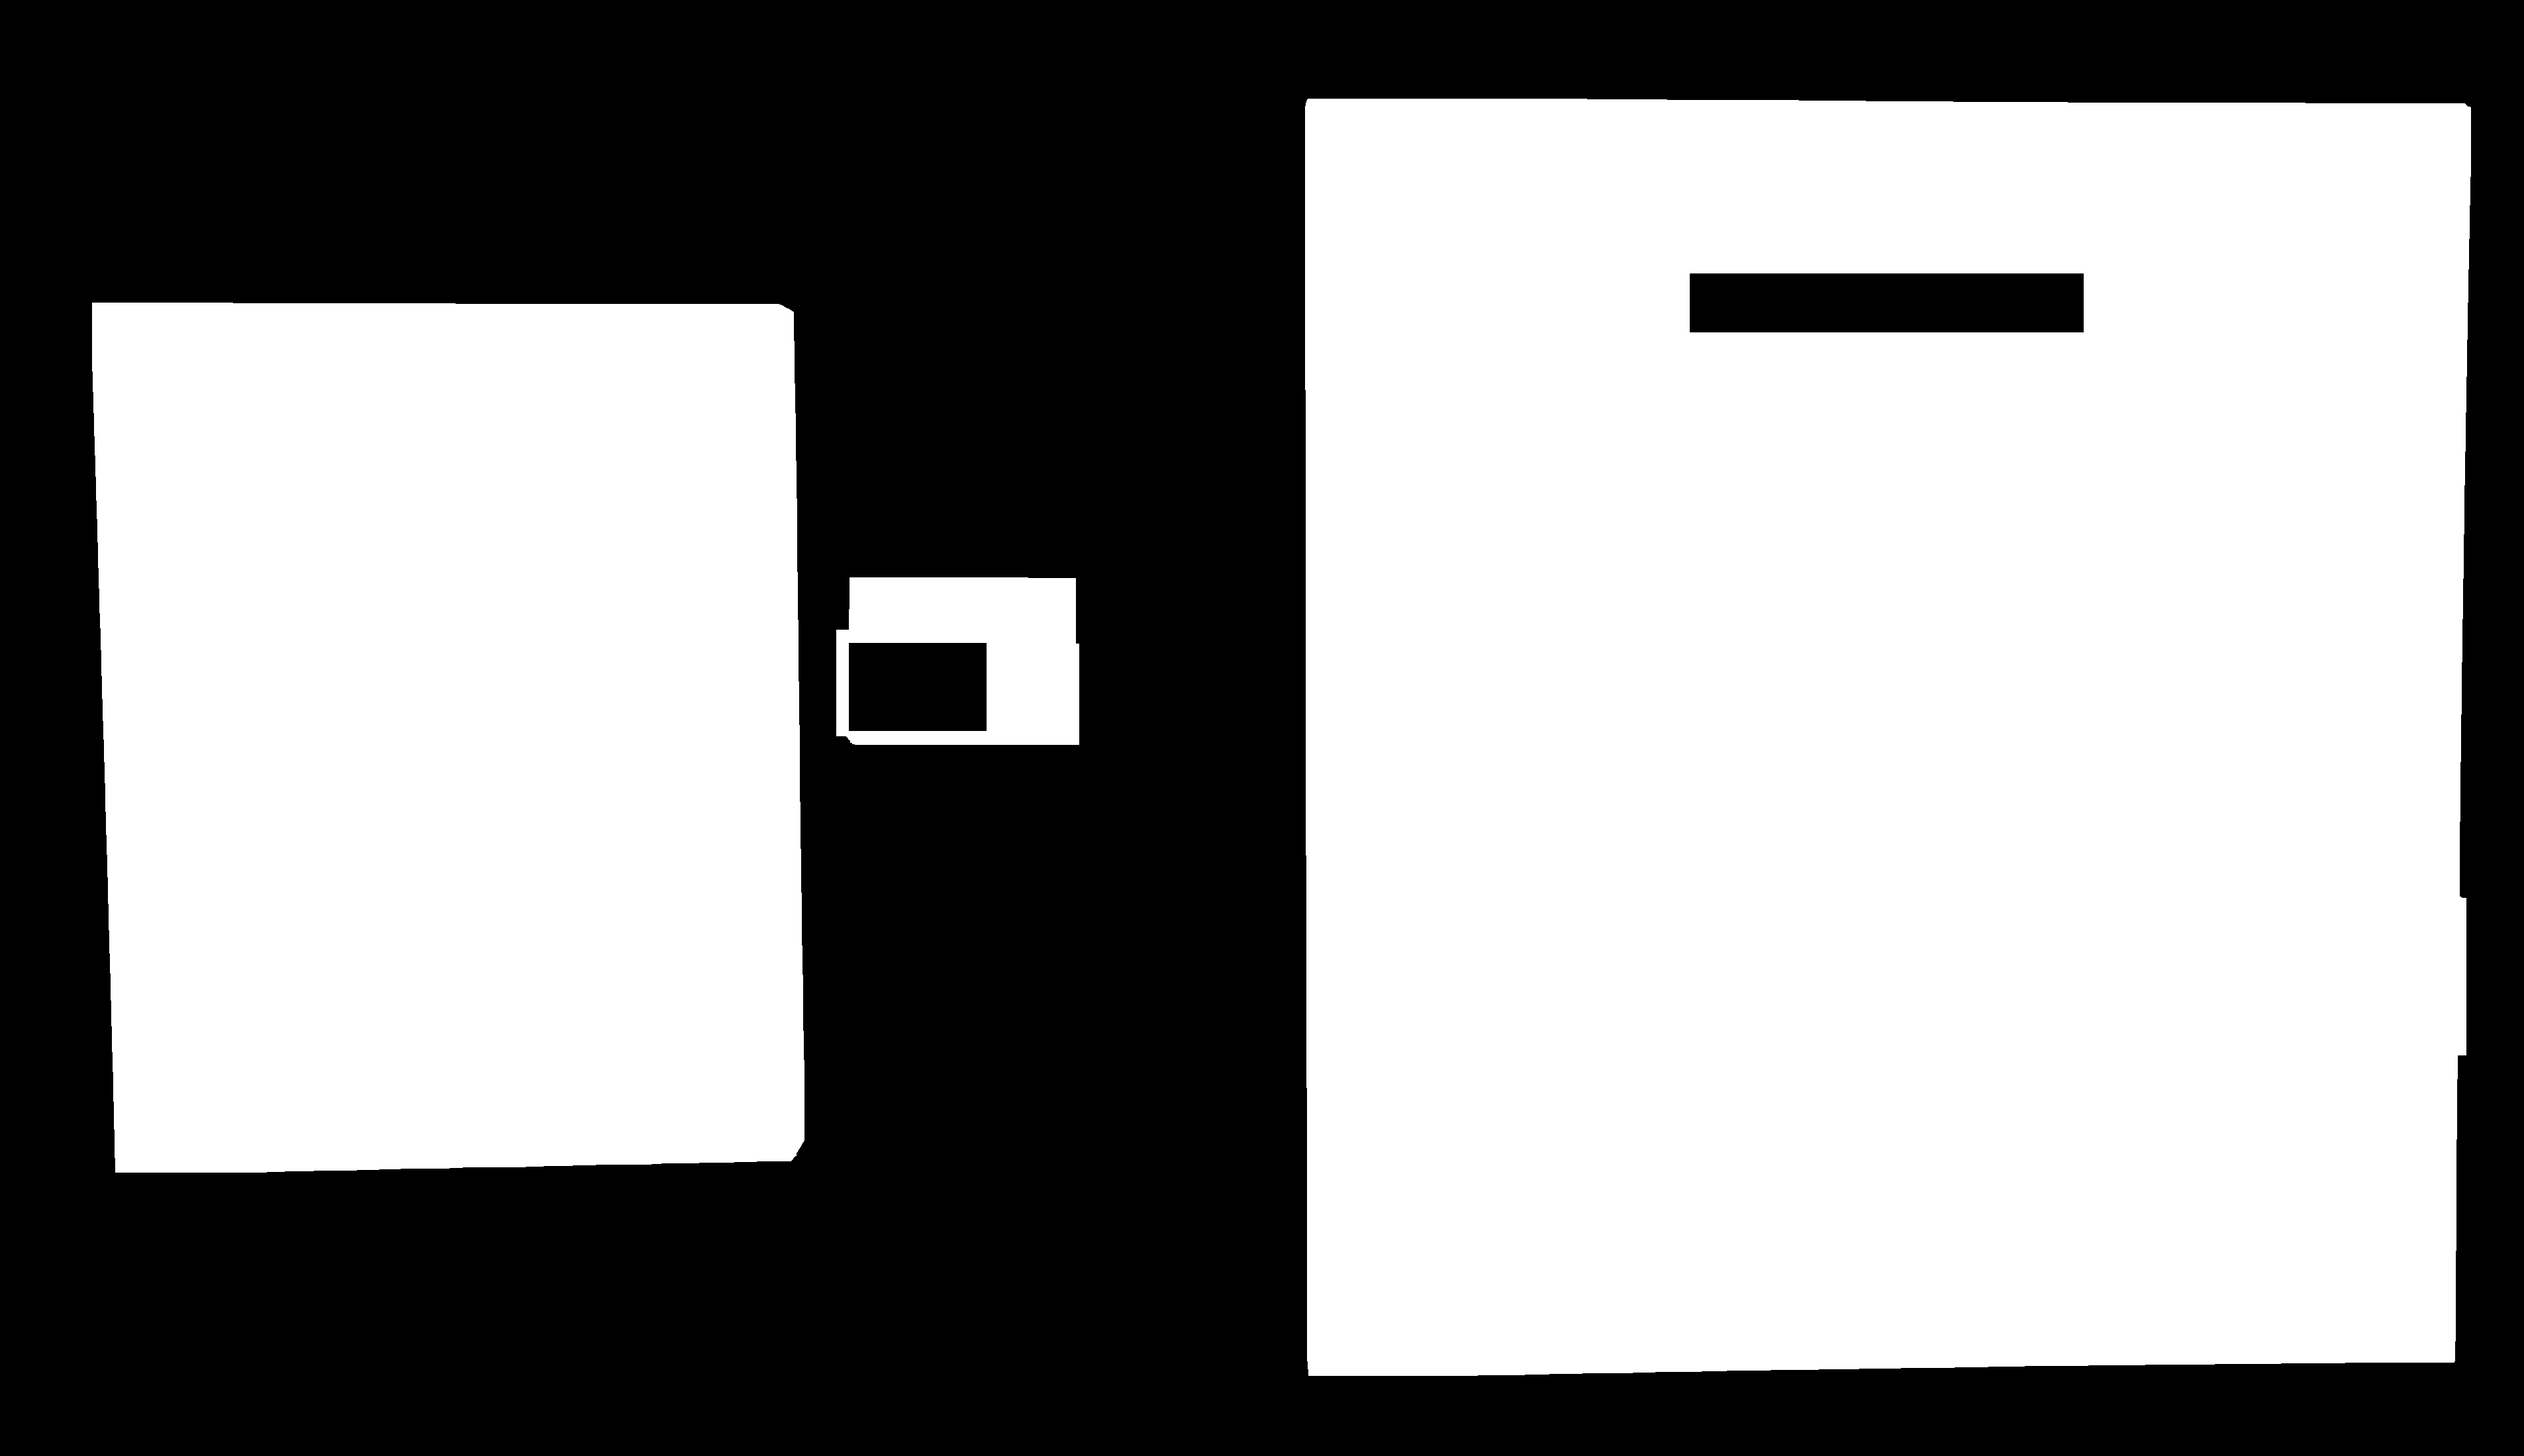
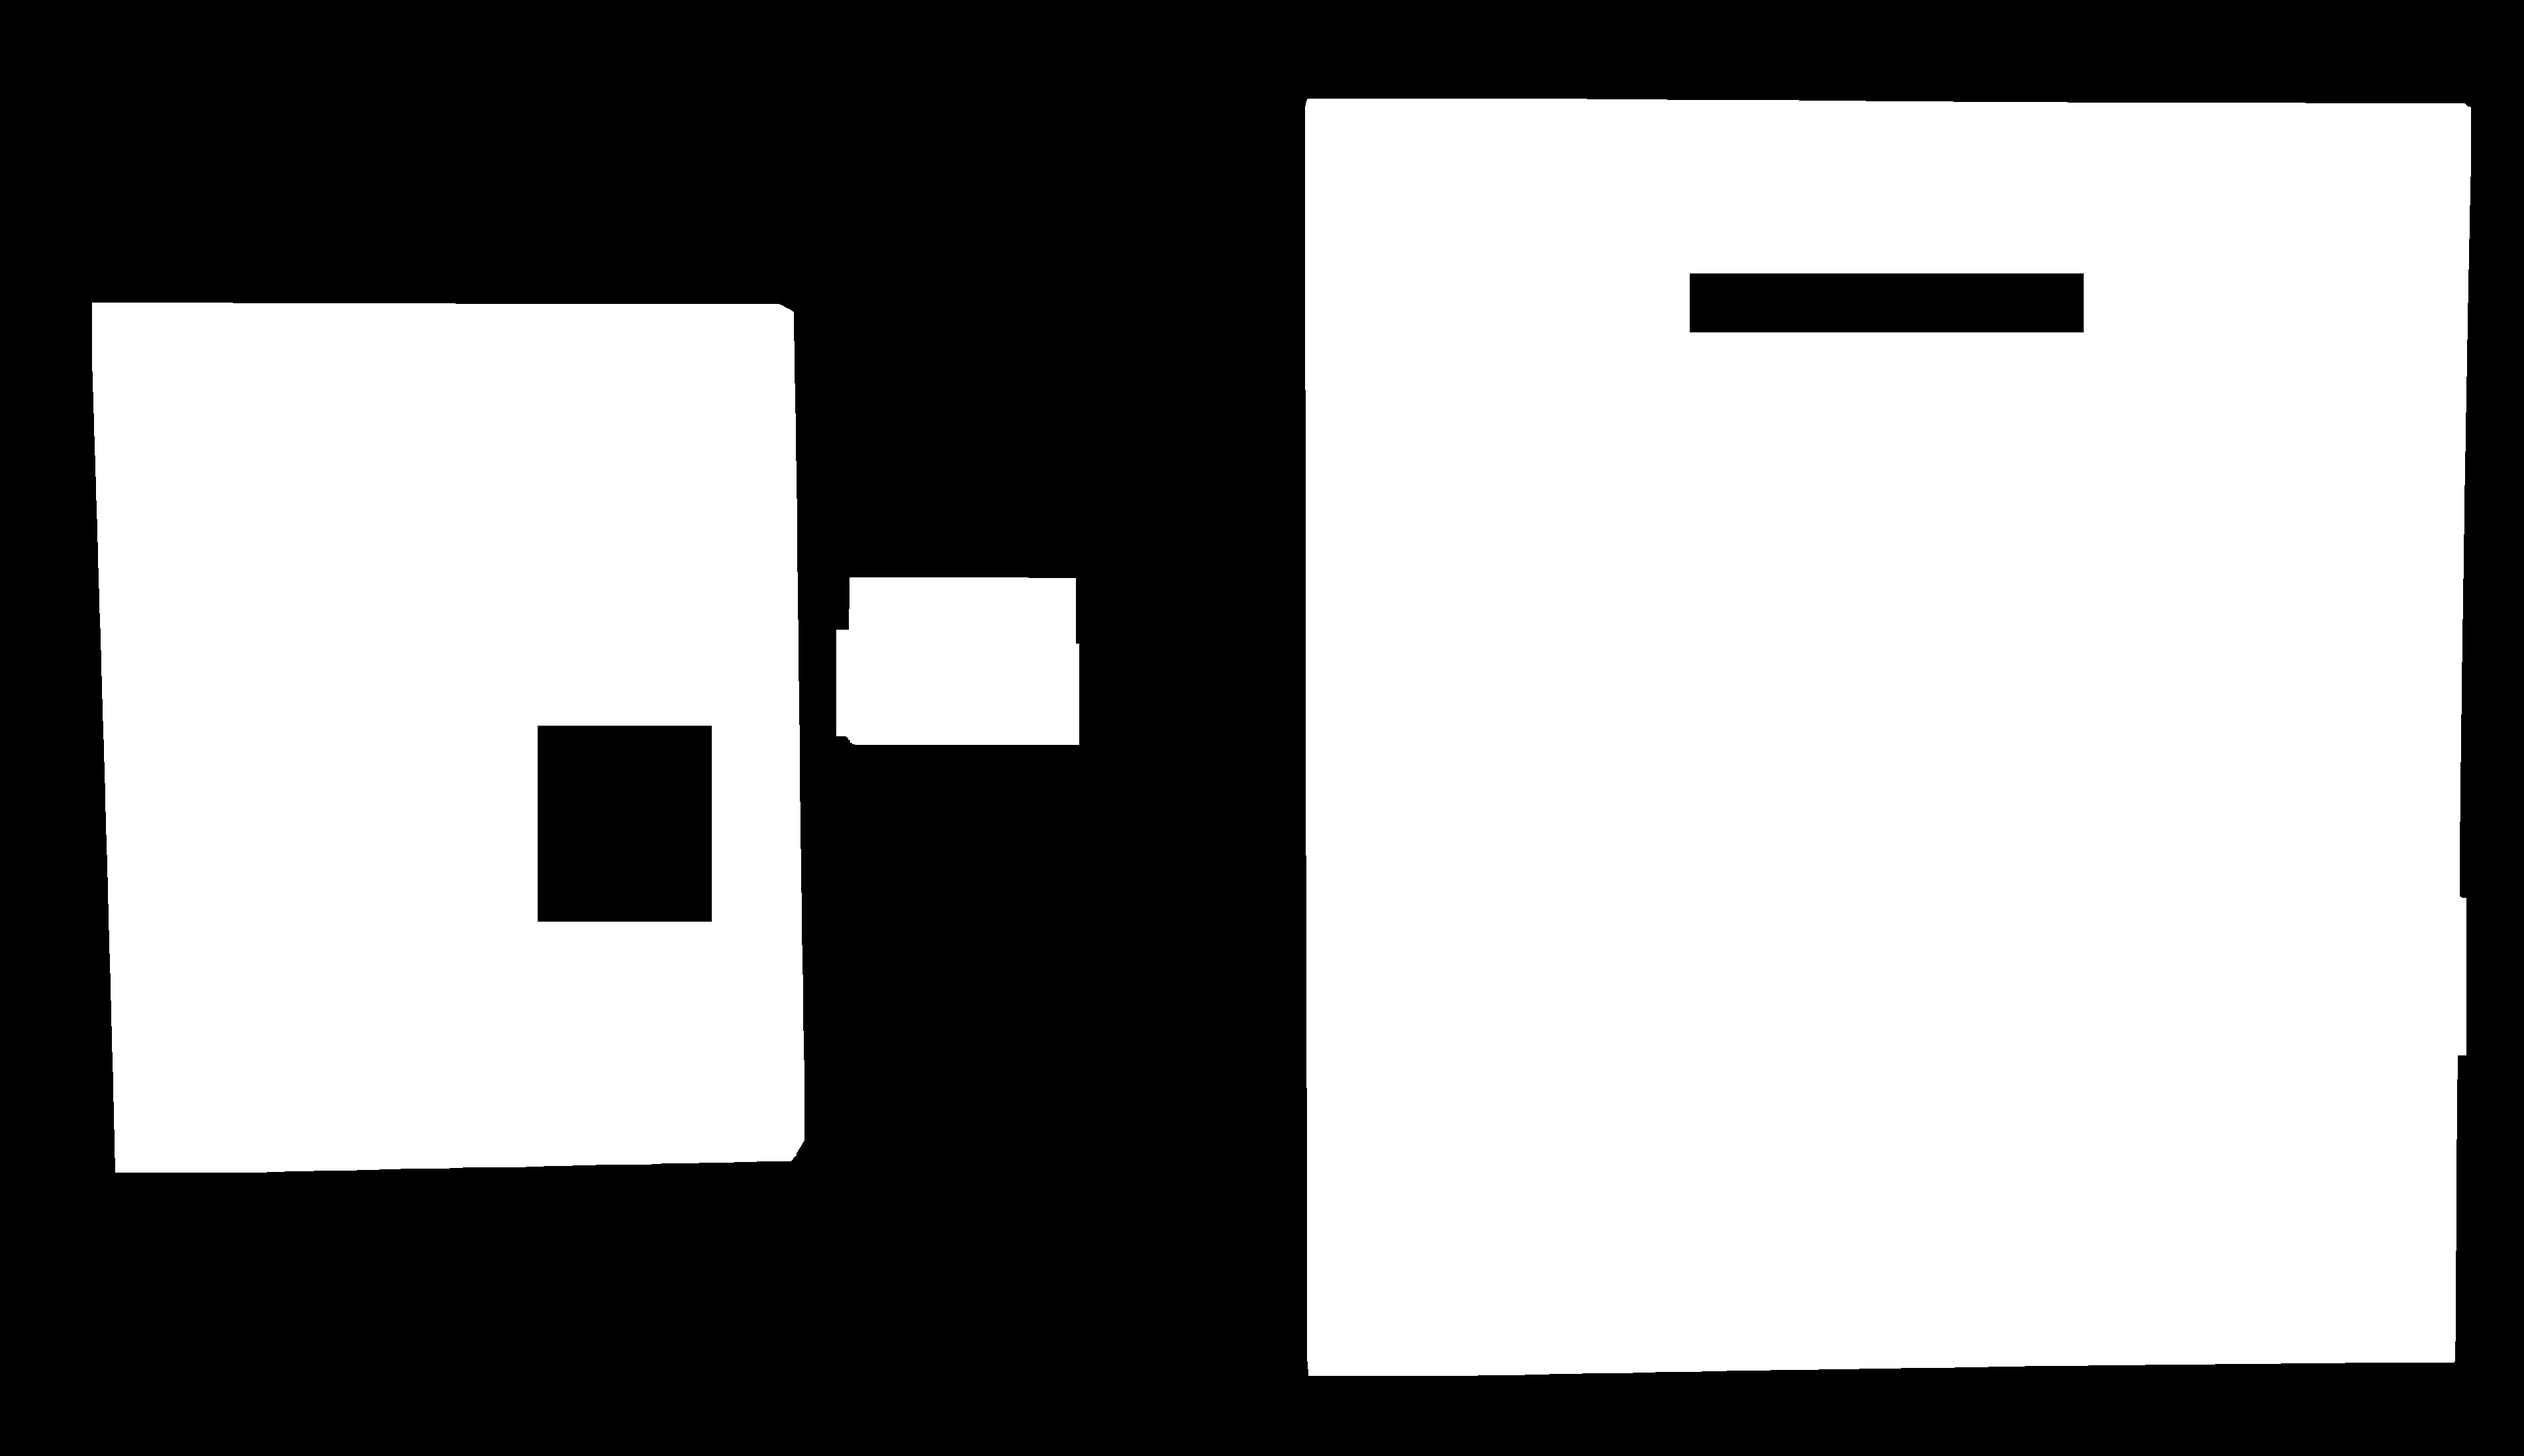
changes

Changed region(s): [[0.1873, 0.4948, 0.281, 0.6494], [0.3122, 0.4329, 0.4058, 0.5257]]

diff --git a/week2/main.py b/week2/main.py
@@ -46,20 +46,28 @@ def text_removal_mask(img_gray, name, strel, strel_pd, num_cols, coords, backgro
         
         # Boundaries of the analyzed area
         columns = np.array(background_mask[picture]).sum(axis=0)
-        non_zero = np.nonzero(columns)
-        non_zero = np.array(non_zero[0])
+        rows = np.array(background_mask[picture]).sum(axis=1)
+        non_zero_col = np.nonzero(columns)
+        non_zero_col = np.array(non_zero_col[0])
 
-        min_a = round((non_zero[0] + non_zero[len(non_zero)-1])/2)
-        max_a = round(min_a + num_cols)
+        if non_zero_col != []:
+            min_a = round((non_zero_col[0] + non_zero_col[len(non_zero_col)-1])/2)
+            max_a = round(min_a + num_cols)
 
-        # Store pixel values in the analyzed area
-        values_t = np.zeros(shape=(int(max_a-min_a), int(max_a-min_a)))
+            # Store pixel values in the analyzed area
+            values_t = np.zeros(shape=(int(max_a-min_a), int(max_a-min_a)))
         
+        non_zero_row = np.nonzero(rows)
+        non_zero_row = np.array(non_zero_row[0])
+
+        min_h = non_zero_row[0]
+        max_h = non_zero_row[len(non_zero_row)-1]
         i = 0
+
         
         for p in range(int(min_a), int(max_a)):
             # Per each column, compute number of ocurrences of every pixel value
-            col = img_gray[:,p]
+            col = img_gray[min_h:max_h,p]
             
             # Pixel values and number of ocurrences for the whole column
             values = pd.Series(col).value_counts().keys().tolist()
